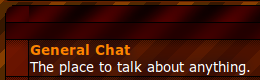
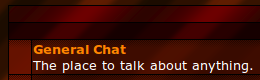
Styling forms in sotd and gold.

diff --git a/abxd/themes/gold/style.css b/abxd/themes/gold/style.css
@@ -149,7 +149,9 @@ td.post .codeblock
 
 .errort
 {
-	background:  #4E5174 url(backh.png) repeat-x;
+	background: #811000 url(header1.png);
+	background-attachment: fixed;
+	background-position: top left;
 	border: 1px solid #000;
 }
 
@@ -161,10 +163,61 @@ td.post .codeblock
 	border-top: 0px;
 }
 
-button
+
+div#tabs button.selected
 {
-	border: 1px solid #960;
-	background: #335;
+	background: #811000 url(header1.png);
+	background-attachment: fixed;
+	background-position: top left;
+	border-color:#000;
+}
+
+div#tabs button
+{
+	border: 1px solid #930;
+	background: #811000 url(back.png);
+	background-attachment: fixed;
+	background-position: top left;
 	color: #FFF;
 }
 
+
+
+button, input[type="submit"]
+{
+	background: #0e2e35 url(forms.png);
+	background-attachment: fixed;
+	background-position: top left;
+
+	border: 1px solid #000212;
+	color: #EEEEEE;
+}
+
+input[type="text"], input[type="password"], input[type="file"], input[type="email"], select, textarea
+{
+	background: #0e2e35 url(forms.png);
+	background-attachment: fixed;
+	background-position: top left;
+
+	border: 1px solid #000212;
+	color: white;
+}
+
+input[type="checkbox"], input[type="radio"]
+{
+	background: #0e2e35 url(forms.png);
+	background-attachment: fixed;
+	background-position: top left;
+	border: 1px solid #000212;
+	color: #B7E6FF;
+}
+
+input[type="radio"]
+{
+	border-radius: 8px;
+}
+
+input[type="text"]:focus, input[type="password"]:focus, input[type="file"]:focus, input[type="email"]:focus, select:focus, textarea:focus
+{
+	border-color: rgba(0, 49, 100, 0.85);
+}

diff --git a/abxd/themes/sotd/style.css b/abxd/themes/sotd/style.css
@@ -158,3 +158,35 @@ button
 	background: #335;
 	color: #FFF;
 }
+
+
+button, input[type="submit"]
+{
+	border: 1px solid #000212;
+	background: rgba(0, 49, 100, 0.85);
+	color: #EEEEEE;
+}
+
+input[type="text"], input[type="password"], input[type="file"], input[type="email"], select, textarea
+{
+	background: rgba(0, 13, 34, 0.90);
+	border: 1px solid #000212;
+	color: white;
+}
+
+input[type="checkbox"], input[type="radio"]
+{
+	background: rgba(0, 13, 34, 0.90);
+	border: 1px solid #000212;
+	color: #B7E6FF;
+}
+
+input[type="radio"]
+{
+	border-radius: 8px;
+}
+
+input[type="text"]:focus, input[type="password"]:focus, input[type="file"]:focus, input[type="email"]:focus, select:focus, textarea:focus
+{
+	border-color: rgba(0, 49, 100, 0.85);
+}

diff --git a/abxd/themes/sotd_nolag/style.css b/abxd/themes/sotd_nolag/style.css
@@ -155,3 +155,35 @@ button
 	background: #335;
 	color: #FFF;
 }
+
+
+button, input[type="submit"]
+{
+	border: 1px solid #000212;
+	background: rgba(0, 49, 100, 0.85);
+	color: #EEEEEE;
+}
+
+input[type="text"], input[type="password"], input[type="file"], input[type="email"], select, textarea
+{
+	background: rgba(0, 13, 34, 0.90);
+	border: 1px solid #000212;
+	color: white;
+}
+
+input[type="checkbox"], input[type="radio"]
+{
+	background: rgba(0, 13, 34, 0.90);
+	border: 1px solid #000212;
+	color: #B7E6FF;
+}
+
+input[type="radio"]
+{
+	border-radius: 8px;
+}
+
+input[type="text"]:focus, input[type="password"]:focus, input[type="file"]:focus, input[type="email"]:focus, select:focus, textarea:focus
+{
+	border-color: rgba(0, 49, 100, 0.85);
+}

diff --git a/abxd/css/common.css b/abxd/css/common.css
@@ -735,7 +735,7 @@ div#tabs button.selected
 {
 	position: static;
 	z-index: -100;
-	border-bottom: 1px solid #24285C;
+	border-bottom-width: 0px;
 }
 
 .noborder
